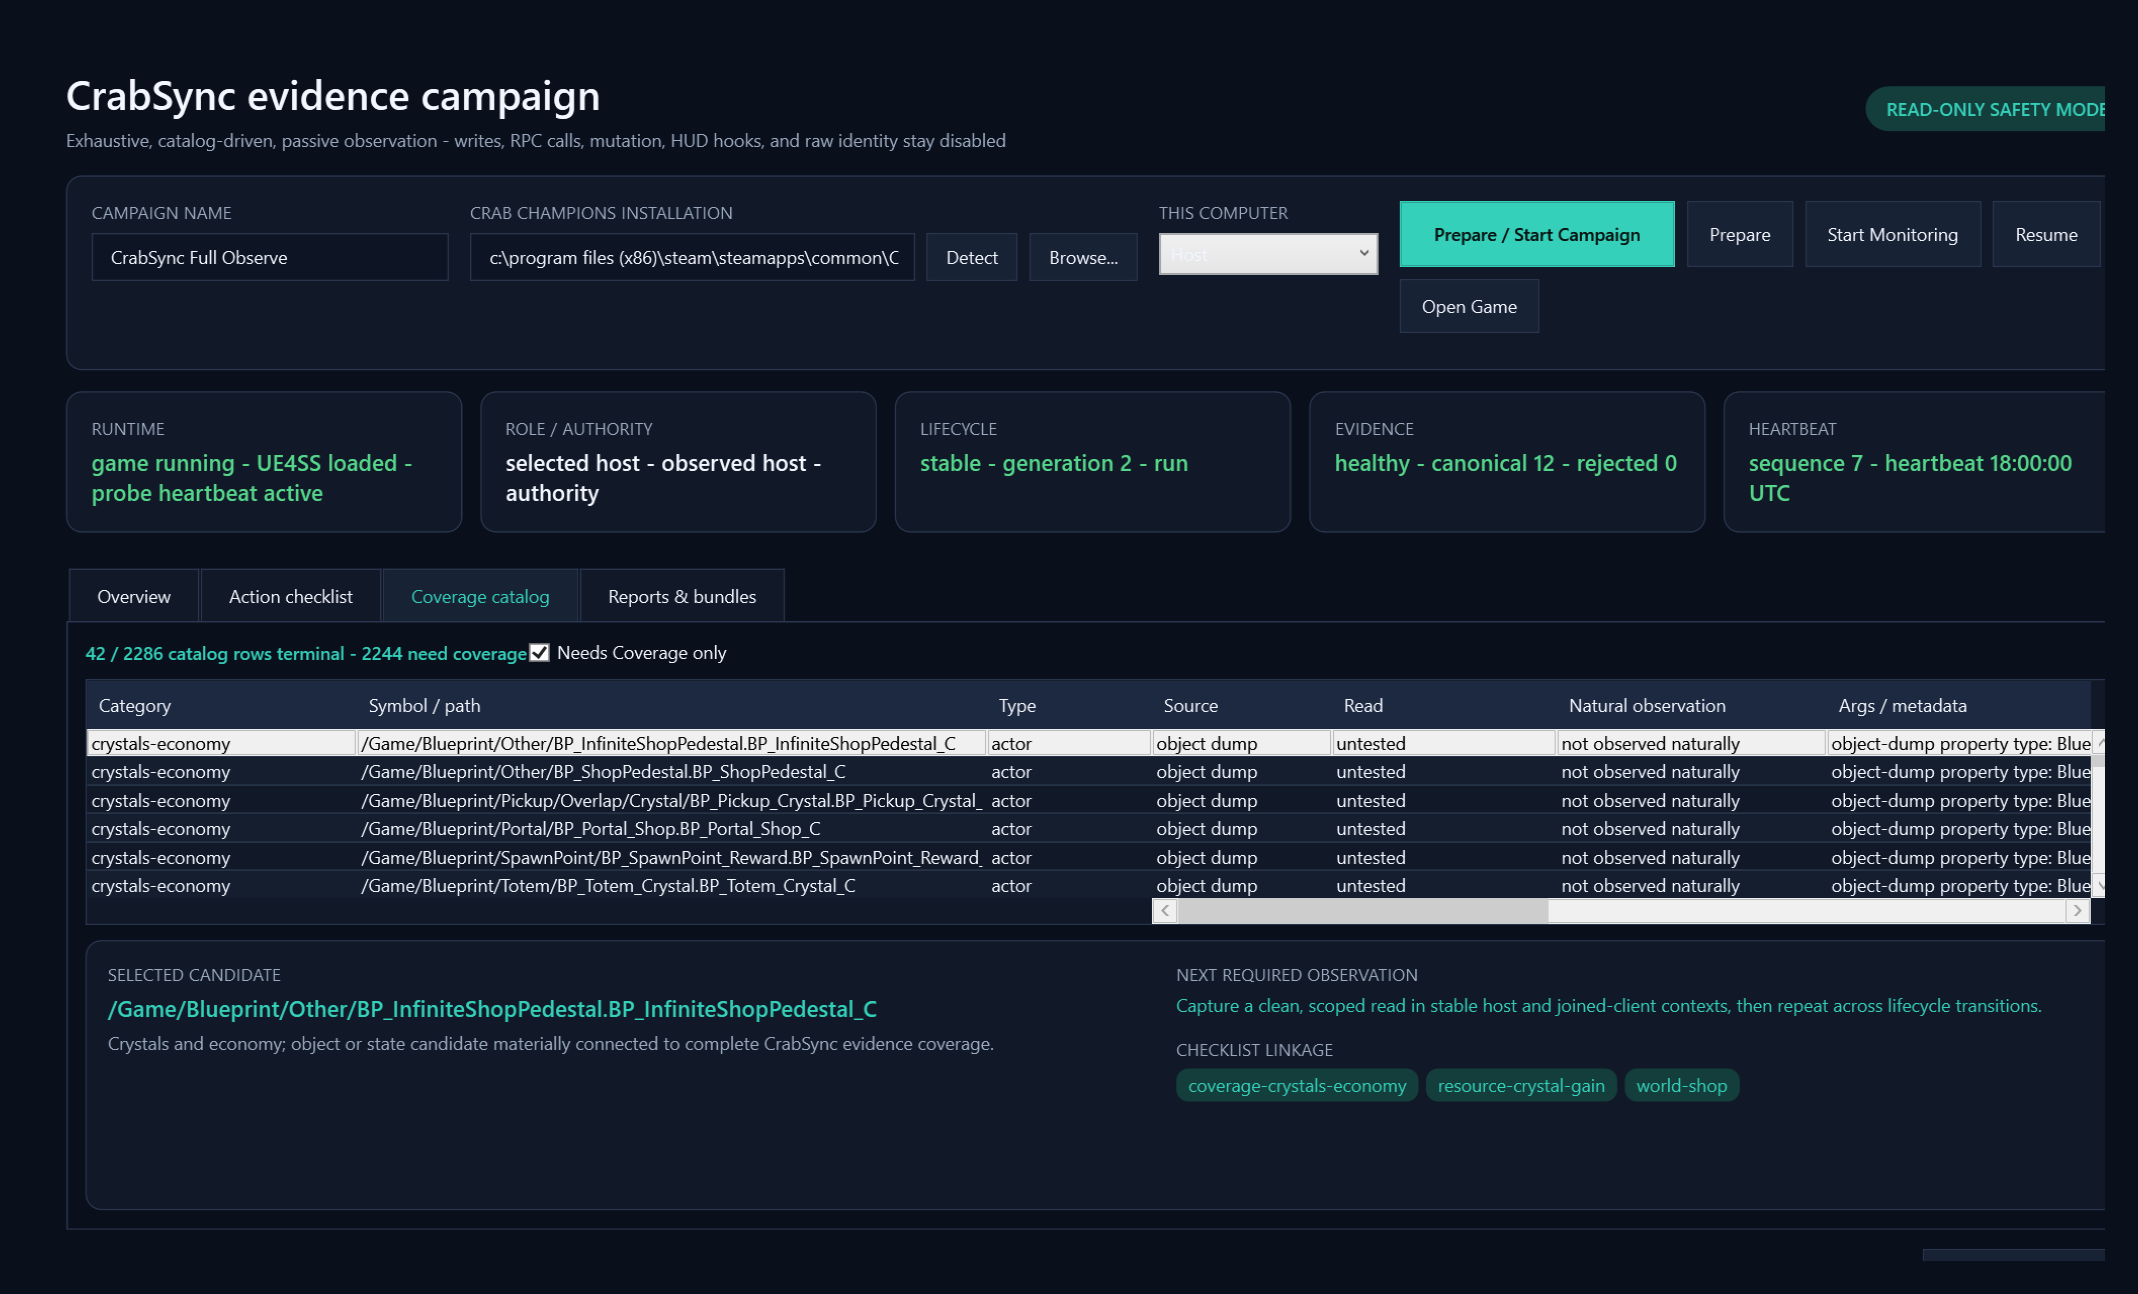
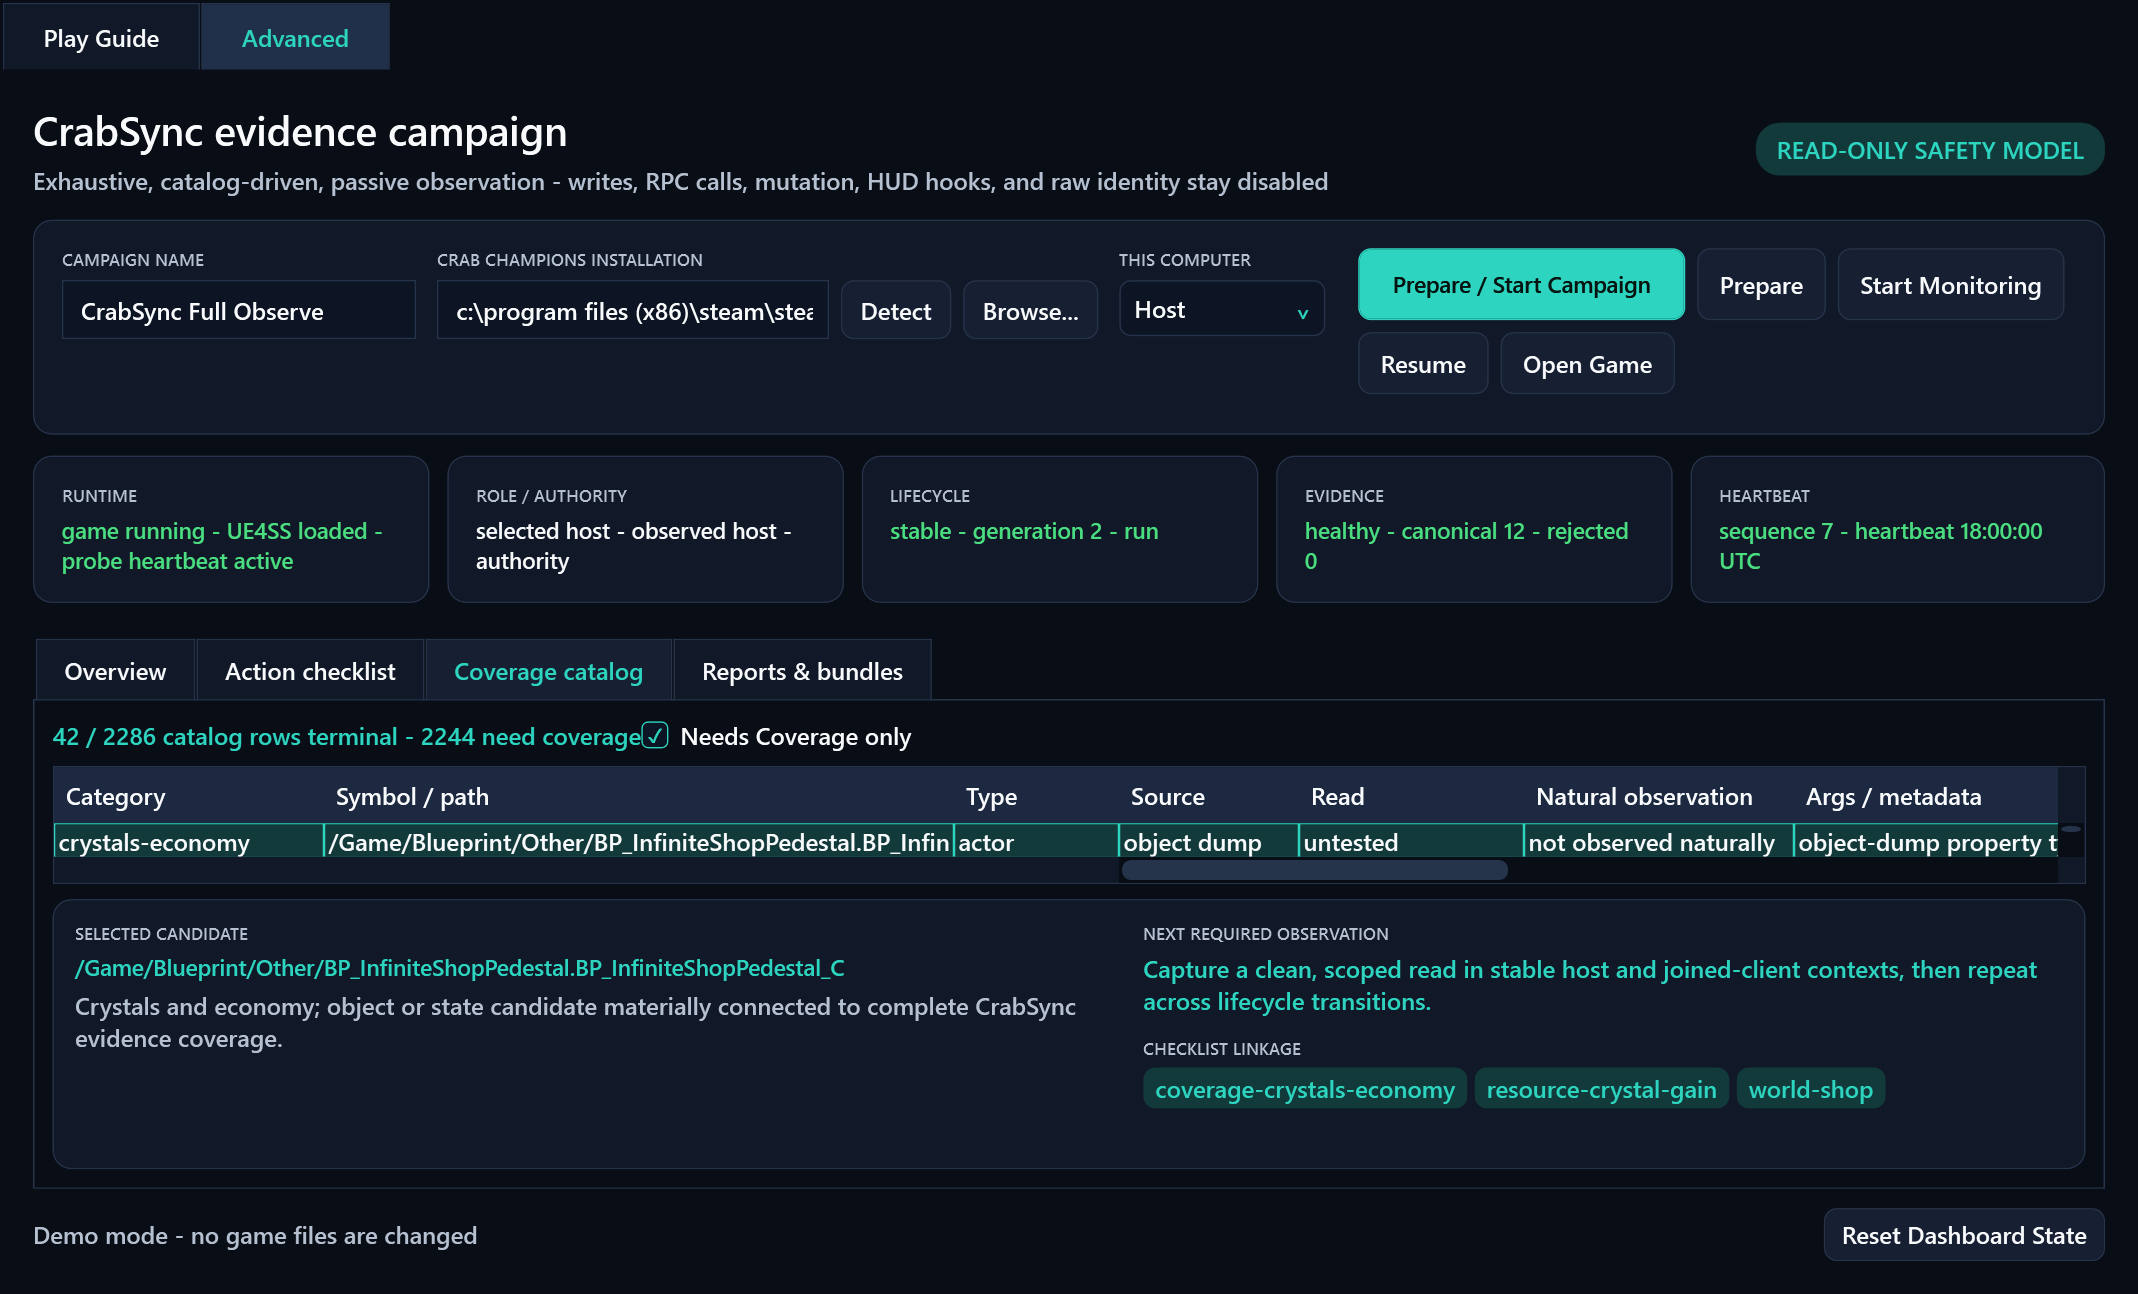
Harden dashboard screenshot verification

diff --git a/dashboard/src/CrabRuntimeProbe.Dashboard/MainWindow.xaml.cs b/dashboard/src/CrabRuntimeProbe.Dashboard/MainWindow.xaml.cs
@@ -55,26 +55,14 @@ public partial class MainWindow : Window
         ApplyDarkWindowChrome();
     }
 
-    private async Task CaptureReviewScreenshotsAsync(string overviewPath)
+    private async Task CaptureReviewScreenshotsAsync(string outputPath)
     {
-        var extension = Path.GetExtension(overviewPath);
-        if (string.IsNullOrWhiteSpace(extension)) extension = ".png";
-        var stem = Path.Combine(Path.GetDirectoryName(overviewPath)!, Path.GetFileNameWithoutExtension(overviewPath));
-        var targets = _screenshotView is { } requestedView
-            ? new[] { (View: requestedView, Path: overviewPath) }
-            : new[]
-            {
-                (View: DashboardScreenshotView.PlayGuide, Path: overviewPath),
-                (View: DashboardScreenshotView.AdvancedOverview, Path: stem + ".advanced-overview" + extension),
-                (View: DashboardScreenshotView.AdvancedChecklist, Path: stem + ".advanced-checklist" + extension),
-                (View: DashboardScreenshotView.AdvancedCoverage, Path: stem + ".advanced-needs-coverage" + extension)
-            };
-        foreach (var target in targets)
-        {
-            SelectScreenshotView(target.View);
-            await CompleteScreenshotLayoutAsync();
-            SaveWindowPng(target.Path);
-        }
+        // Capture one view per process. Reusing one retained WPF tree for several tab
+        // snapshots can omit unchanged regions in later RenderTargetBitmap renders.
+        // The CI workflow launches four isolated processes for the four review images.
+        SelectScreenshotView(_screenshotView ?? DashboardScreenshotView.PlayGuide);
+        await CompleteScreenshotLayoutAsync();
+        SaveWindowPng(outputPath);
     }
 
     private void SelectScreenshotView(DashboardScreenshotView view)
@@ -148,12 +136,10 @@ public partial class MainWindow : Window
             || contentWidthDip <= 0 || contentHeightDip <= 0)
             throw new InvalidOperationException("The dashboard content has not completed layout.");
 
-        // A FrameworkElement's margin belongs to its parent layout slot and is not part of the
-        // element's own rendered pixels. Recreate that client-area gutter in the bitmap so the
-        // review image matches the dashboard composition without capturing window chrome.
-        var margin = content.Margin;
-        var widthDip = contentWidthDip + margin.Left + margin.Right;
-        var heightDip = contentHeightDip + margin.Top + margin.Bottom;
+        // Render exactly the opaque root visual. Its parent-owned Margin is intentionally not
+        // part of the element's pixels and must not be added as an unpainted bitmap gutter.
+        var widthDip = contentWidthDip;
+        var heightDip = contentHeightDip;
         var dpi = VisualTreeHelper.GetDpi(content);
         var widthPixels = Math.Max(1, (int)Math.Ceiling(widthDip * dpi.DpiScaleX));
         var heightPixels = Math.Max(1, (int)Math.Ceiling(heightDip * dpi.DpiScaleY));
@@ -165,12 +151,10 @@ public partial class MainWindow : Window
         var bitmap = new RenderTargetBitmap(
             widthPixels, heightPixels, dpi.PixelsPerInchX, dpi.PixelsPerInchY, PixelFormats.Pbgra32);
 
-        // Render the live root visual directly. Reusing the root through consecutive
-        // VisualBrush snapshots can make WPF omit already-composited child regions after a
-        // tab switch, which produces a large black band in later review images. The root Grid
-        // is explicitly opaque; the background pass also preserves the client-area gutter if
-        // a future layout adds a margin. RenderTargetBitmap remains independent of the
-        // foreground desktop, monitor bounds, and screen scaling.
+        // Render the live opaque root directly. One isolated process renders one selected
+        // review view, avoiding retained-tree omissions across consecutive tab snapshots.
+        // RenderTargetBitmap remains independent of the foreground desktop, monitor bounds,
+        // and screen scaling.
         var backgroundVisual = new DrawingVisual();
         using (var drawing = backgroundVisual.RenderOpen())
             drawing.DrawRectangle(background, null, bounds);
